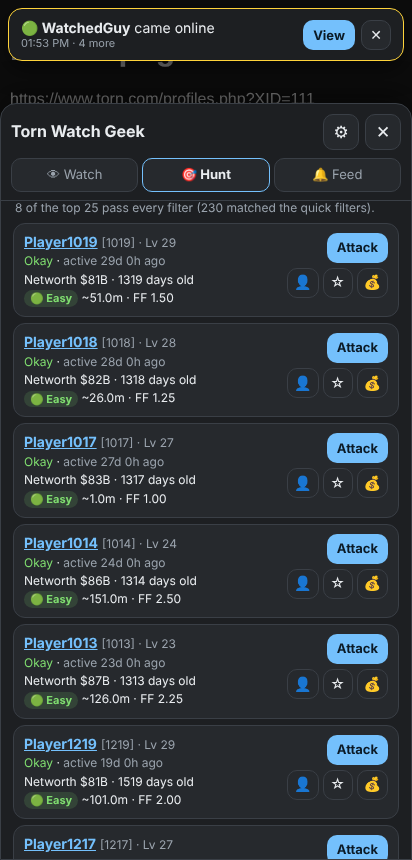
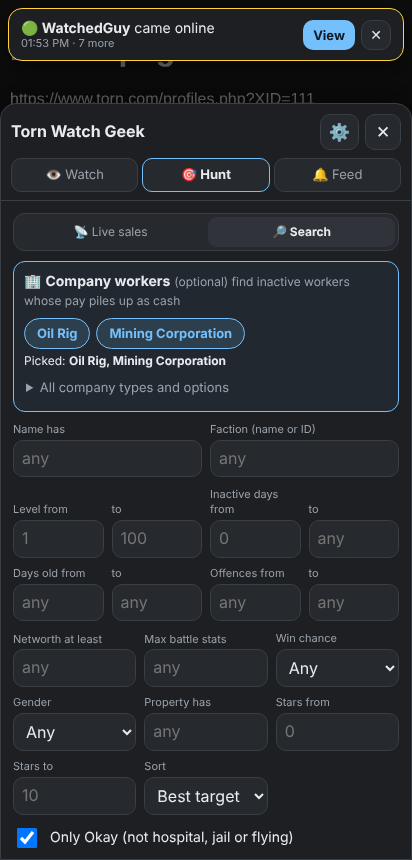
1.2.1: company workers box at the top of Search; level filter fix
- 'Company workers' box first in Search, with Oil Rig and Mining as quick
  buttons, the picked types listed, and all types under a fold.
- Company worker lists carry no level, so a level filter no longer throws
  those workers out; it's checked after the player check.
- Every Search message starts with what was read from companies.

Claude-Session: https://claude.ai/code/session_01QZib5gaoEbii82ger62EmG

diff --git a/torn-watch-geek.user.js b/torn-watch-geek.user.js
@@ -1,7 +1,7 @@
 // ==UserScript==
 // @name         Torn Watch Geek
 // @namespace    https://github.com/SarcasticGeekJr/torn-watch-geek
-// @version      1.2.0
+// @version      1.2.1
 // @description  Watch players (online, hospital, jail, flight landing times, bazaar and Item Market listings) and find mug targets: rich sellers, sleeping workers in high-paying companies, and your own advanced search, all with estimated battle stats and win chance. Built for Torn PDA, works in Tampermonkey too.
 // @author       SarcasticGeekJr
 // @match        https://www.torn.com/*
@@ -48,7 +48,7 @@
 
   // ---------------------------------------------------------------- config
   const PDA_KEY = "###PDA-APIKEY###"; // Torn PDA replaces this with your key at runtime
-  const VERSION = "1.2.0"; // keep in sync with @version above
+  const VERSION = "1.2.1"; // keep in sync with @version above
   const UPDATE_URL = "https://raw.githubusercontent.com/SarcasticGeekJr/torn-watch-geek/main/torn-watch-geek.user.js";
   const TORN = "https://api.torn.com";
   const FFS = "https://ffscouter.com/api/v1/get-stats";
@@ -1790,7 +1790,27 @@
     const types = (CTYPES && CTYPES.types) || {};
     const n = Object.keys(DB).length;
     const inp = (k, ph, mode = "numeric") => `<input data-f="${k}" ${mode === "numeric" ? 'type="number" inputmode="numeric"' : 'type="text"'} placeholder="${ph}" value="${esc(f[k])}">`;
+    // Quick buttons: Oil Rig, Mining Corporation, plus anything already picked.
+    const quick = Object.entries(types).filter(([id, nm]) => /oil rig|mining/i.test(nm) || f.ctypes.includes(+id));
     $(".hunt-form").innerHTML = `
+      <div class="cbox">
+        <div class="cbox-h">🏢 <b>Company workers</b> <span class="muted small">(optional) find inactive workers whose pay piles up as cash</span></div>
+        <div class="chips">${quick
+          .map(([id, nm]) => `<button class="chip ${f.ctypes.includes(+id) ? "on" : ""}" data-act="sctype" data-id="${id}">${esc(nm)}</button>`)
+          .join("")}</div>
+        <div class="small cpicked">${f.ctypes.length ? "Picked: <b>" + f.ctypes.map((t) => esc(typeName(t))).join(", ") + "</b>" : "None picked: searching your saved players only."}</div>
+        <details class="more ctypes"><summary>All company types and options</summary>
+          <p class="muted small">Search reads the picked companies' worker lists first (1 API call per company, saved for 6 hours), adds the workers, then applies your filters. Each worker shows a guess of their unbanked pay.</p>
+          <div class="chips">${Object.entries(types)
+            .sort((a, b) => a[1].localeCompare(b[1]))
+            .map(([id, nm]) => `<button class="chip ${f.ctypes.includes(+id) ? "on" : ""}" data-act="sctype" data-id="${id}">${esc(nm)}</button>`)
+            .join("")}</div>
+          <div class="filters two">
+            <label>Companies to read<input data-f="companies" type="number" inputmode="numeric" value="${esc(f.companies)}"></label>
+            <label>Which companies<select data-f="pick"><option value="mix" ${f.pick !== "top" ? "selected" : ""}>Mix (all sizes)</option><option value="top" ${f.pick === "top" ? "selected" : ""}>Best pay first</option></select></label>
+          </div>
+        </details>
+      </div>
       <div class="filters two">
         <label>Name has${inp("name", "any", "text")}</label>
         <label>Faction (name or ID)${inp("faction", "any", "text")}</label>
@@ -1819,17 +1839,6 @@
           .map(([v, l]) => `<option value="${v}" ${f.sort === v ? "selected" : ""}>${l}</option>`)
           .join("")}</select></label>
       </div>
-      <details class="more ctypes" ${f.ctypes.length ? "open" : ""}><summary>Company types: ${f.ctypes.length ? f.ctypes.map((t) => esc(typeName(t))).join(", ") : "any"}</summary>
-        <p class="muted small">Pick types (for example Oil Rig and Mining Corporation) to find their workers. Search reads those companies' worker lists (1 API call per company, saved for 6 hours), adds the workers to your list, and shows a guess of their unbanked pay. Wages land as cash on hand, so inactive workers pile it up.</p>
-        <div class="chips">${Object.entries(types)
-          .sort((a, b) => a[1].localeCompare(b[1]))
-          .map(([id, nm]) => `<button class="chip ${f.ctypes.includes(+id) ? "on" : ""}" data-act="sctype" data-id="${id}">${esc(nm)}</button>`)
-          .join("")}</div>
-        <div class="filters two">
-          <label>Companies to read<input data-f="companies" type="number" inputmode="numeric" value="${esc(f.companies)}"></label>
-          <label>Which companies<select data-f="pick"><option value="mix" ${f.pick !== "top" ? "selected" : ""}>Mix (all sizes)</option><option value="top" ${f.pick === "top" ? "selected" : ""}>Best pay first</option></select></label>
-        </div>
-      </details>
       <label class="tog"><input type="checkbox" data-f="okOnly" ${f.okOnly ? "checked" : ""}> Only Okay (not hospital, jail or flying)</label>
       <label class="tog"><input type="checkbox" data-f="noClothing" ${f.noClothing ? "checked" : ""}> Hide 7★+ clothing store workers (−75% mug)</label>
       <label class="tog">Hide players I mugged in the last<input class="num" data-f="hideMugged" type="number" inputmode="numeric" value="${esc(f.hideMugged)}"> days</label>
@@ -1852,8 +1861,9 @@
       const q = f.faction.trim().toLowerCase();
       if (/^\d+$/.test(q) ? +q !== p.f : !(p.fn || "").toLowerCase().includes(q)) return "faction";
     }
-    if (L(f.lvlMin) != null && (p.lv == null || p.lv < +f.lvlMin)) return "level";
-    if (L(f.lvlMax) != null && (p.lv == null || p.lv > +f.lvlMax)) return "level";
+    // Level may be unknown (company worker lists don't include it); the player check fills it in.
+    if (L(f.lvlMin) != null && p.lv != null && p.lv < +f.lvlMin) return "level";
+    if (L(f.lvlMax) != null && p.lv != null && p.lv > +f.lvlMax) return "level";
     const inact = daysSince(p.la);
     if (L(f.inMin) != null && (inact == null || inact < +f.inMin)) return "inactive days";
     if (L(f.inMax) != null && (inact == null || inact > +f.inMax)) return "inactive days";
@@ -1889,7 +1899,9 @@
       if (sf === true) return no("battle stats / win chance");
       if (sf === null) wait = true;
     }
-    if (needsProfile(f) && !p.pt) return null;
+    if ((needsProfile(f) || ((L(f.lvlMin) != null || L(f.lvlMax) != null) && p.lv == null)) && !p.pt) return null;
+    if (L(f.lvlMin) != null && (p.lv == null || p.lv < +f.lvlMin)) return no("level");
+    if (L(f.lvlMax) != null && (p.lv == null || p.lv > +f.lvlMax)) return no("level");
     if (f.okOnly && p.st && p.st !== "Okay") return no("not Okay right now");
     if (L(f.ageMin) != null && (p.age == null || p.age < +f.ageMin)) return no("days old");
     if (L(f.ageMax) != null && (p.age == null || p.age > +f.ageMax)) return no("days old");
@@ -1956,7 +1968,7 @@
       list.sort((a, b) => b.score - a.score);
       const pool = list.slice(0, 500);
       view.results = { mode: "search", list: [] };
-      view.msg = `${all.length.toLocaleString()} match the quick filters. Getting battle stats for ${pool.length}…`;
+      view.msg = `${scanNote}${all.length.toLocaleString()} match the quick filters. Getting battle stats for ${pool.length}…`;
       drawResults();
       await Promise.all(pool.map((r) => stats(r.id)));
       if (view.runId !== runId) return;
@@ -1965,7 +1977,7 @@
       list.forEach((r) => (r.score = targetScore(r.id, DB[r.id] || {})));
       if (!list.length) {
         view.results = { mode: "search", list: [] };
-        view.msg = `${all.length.toLocaleString()} match the quick filters, but none of the ${before} checked pass the battle stats / win chance filter${ffErr ? ` (${esc(ffErr)})` : ""}. Try 'Find more players' or a looser win chance.`;
+        view.msg = `${scanNote}${all.length.toLocaleString()} match the quick filters, but none of the ${before} checked pass the battle stats / win chance filter${ffErr ? ` (${esc(ffErr)})` : ""}. Try 'Find more players' or a looser win chance.`;
         drawResults();
         return;
       }
@@ -2008,7 +2020,7 @@
     };
     top.forEach(recheck);
     view.results = { mode: "search", list: top };
-    view.msg = `${all.length.toLocaleString()} match the quick filters. Checking the top ${top.length}…`;
+    view.msg = `${scanNote}${all.length.toLocaleString()} match the quick filters. Checking the top ${top.length}…`;
     drawResults();
     $(".hunt-msg").scrollIntoView({ behavior: "smooth", block: "start" });
     enrich(top, {
@@ -2276,9 +2288,9 @@
         const L = S.search.ctypes;
         S.search.ctypes = L.includes(t) ? L.filter((x) => x !== t) : [...L, t];
         save();
-        el.classList.toggle("on");
-        const sm = el.closest("details").querySelector("summary");
-        sm.textContent = "Company types: " + (S.search.ctypes.length ? S.search.ctypes.map(typeName).join(", ") : "any");
+        $$(`.chip[data-act=sctype][data-id="${t}"]`).forEach((c) => c.classList.toggle("on", S.search.ctypes.includes(t)));
+        const pk = $(".cpicked");
+        if (pk) pk.innerHTML = S.search.ctypes.length ? "Picked: <b>" + S.search.ctypes.map((x) => esc(typeName(x))).join(", ") + "</b>" : "None picked: searching your saved players only.";
         break;
       }
       case "searchGo":
@@ -2625,6 +2637,11 @@ input:focus, select:focus { border-color: var(--acc); }
 .chip-in { width: 110px; padding: 5px 10px; border-radius: 999px; font-size: 13px; }
 .live-list { margin-top: 10px; }
 .livesum { margin: 0 2px 8px; color: var(--muted); }
+.cbox { margin-top: 10px; padding: 10px; border: 1px solid var(--acc); border-radius: 12px; background: rgba(116,192,252,.06); }
+.cbox-h { font-size: 14px; }
+.cbox .chips { margin: 8px 0 4px; }
+.cpicked { margin-top: 2px; }
+.cbox details.more { margin-top: 6px; }
 .fftest { margin: 4px 0 10px; word-break: break-word; }
 .lrow.hotrow { border-color: rgba(255,169,77,.6); }
 .hot { color: var(--orange); font-weight: 700; }
